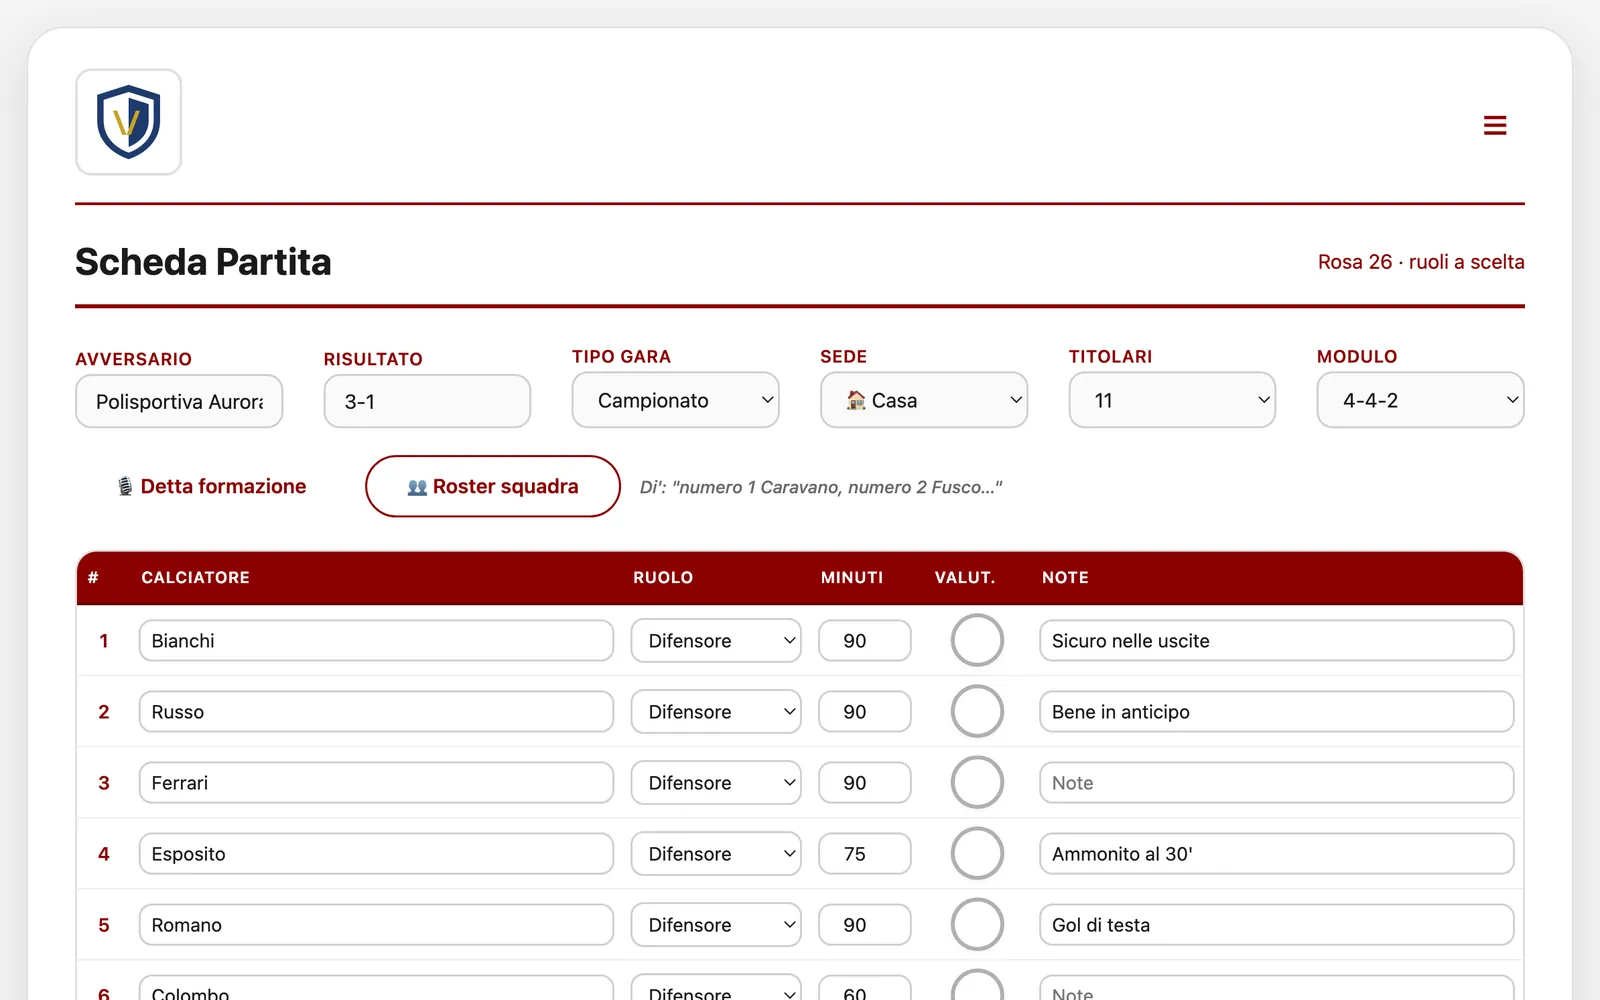
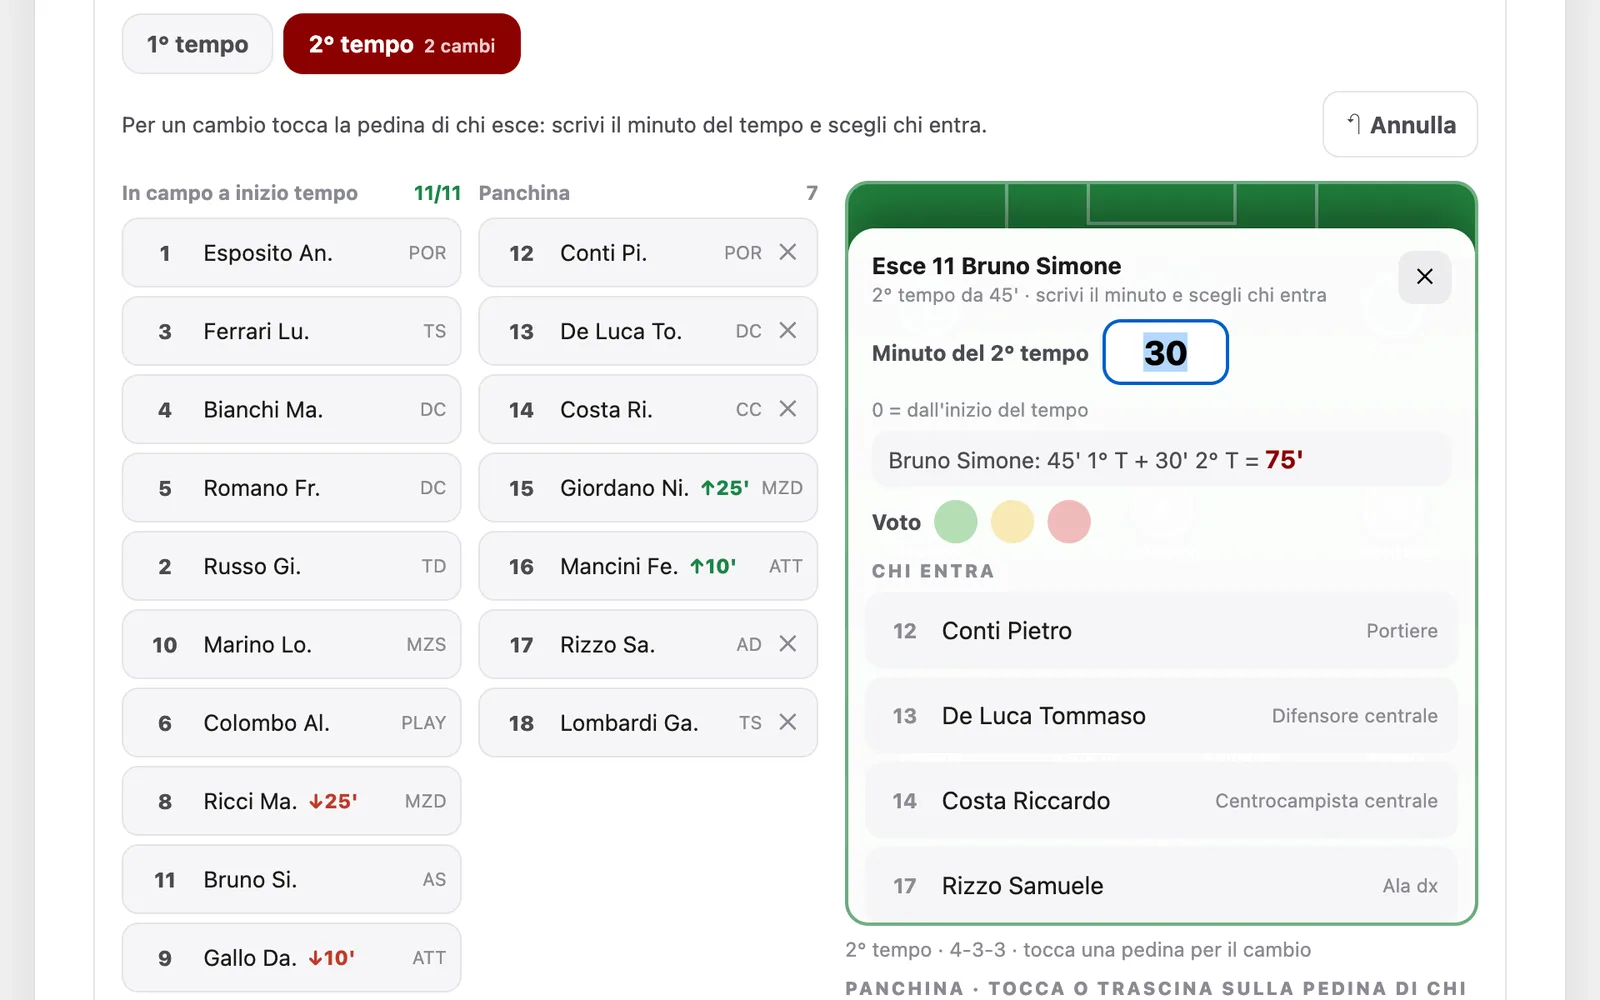
Report: quaderno «?» rifatto con le nuove schermate (6 pagine: dati, chi era in campo, cambio sulla pedina, pagella, marcatori e file, PDF) e pulsante «?» di nuovo nel Report; elenchi con nomi corti e ruolo abbreviato; riquadro Fuori rosa chiuso finché non lo apri; spazio corretto nel titolo del PDF

diff --git a/guida/guida.js b/guida/guida.js
@@ -7,7 +7,7 @@
   if (!me) return;
   var app = me.getAttribute('data-app');
   var base = new URL('.', me.src).href;
-  var BOOKS = {"lavagna": [{"img": "img/lav-1.webp", "t": "Imposta la seduta", "d": "Data, categoria, numero della seduta, durata, obiettivo e materiale: li scrivi una volta in alto e finiscono nell’intestazione del PDF.", "hl": {"x": 0.0427, "y": 0.329, "w": 0.9146, "h": 0.1876}}, {"img": "img/lav-2.webp", "t": "Trascina giocatori e attrezzi", "d": "Pedine colorate, giocatori di fronte, di spalle e in corsa, coni, porte, scale e ostacoli: li trascini sul campo, li ruoti e li ridimensioni. La maglia dei giocatori cambia colore con un tocco.", "hl": {"x": 0.0427, "y": 0.128, "w": 0.1106, "h": 0.8831}}, {"img": "img/lav-3.webp", "t": "Disegna i movimenti", "d": "Scegli passaggio, corsa, conduzione o tiro e tira la freccia sul campo: con le maniglie la allunghi o la curvi. Linee e zone servono a delimitare gli spazi.", "hl": {"x": 0.0427, "y": 0.0107, "w": 0.9146, "h": 0.1173}}, {"img": "img/lav-4.webp", "t": "Esercizio solo testo", "d": "Se vai di fretta scrivi l’esercizio a parole, con durata e materiale. Nel PDF esce come riquadro di testo al posto del campo.", "hl": {"x": 0.1683, "y": 0.1608, "w": 0.7889, "h": 0.5407}}, {"img": "img/lav-5.webp", "t": "Salva e stampa", "d": "Salva la seduta come file sul dispositivo e riaprila quando vuoi. Con Stampa / PDF ottieni la seduta pronta da stampare o da inviare.", "hl": {"x": 0.6458, "y": 0.2265, "w": 0.3115, "h": 0.0529}}, {"img": "img/lav-6.webp", "t": "Logo, firma e colori", "d": "Dal menu ☰ carichi il logo della squadra, aggiungi la tua firma e scegli il colore: valgono per tutte le app della suite.", "hl": {"x": 0.7563, "y": 0.1541, "w": 0.201, "h": 0.4201}}], "posizionamenti": [{"img": "img/pos-1.webp", "t": "Dati della gara", "d": "Avversario, data, tipo di gara, sede e modulo. In alto scegli calcio a 11 o a 9: ognuno ha le sue tabelle.", "hl": {"x": 0.0243, "y": 0.2117, "w": 0.9514, "h": 0.209}}, {"img": "img/pos-2.webp", "t": "Formazione", "d": "Titolari e panchina con i numeri di maglia. Con il roster della squadra scegli i nomi da un elenco e il numero si mette da solo.", "hl": {"x": 0.0243, "y": 0.0188, "w": 0.3138, "h": 0.9812}}, {"img": "img/pos-3.webp", "t": "Tabelle a misura tua", "d": "Rinomini titoli e voci, aggiungi righe con ＋ e con ↕ Sposta le metti dove servono. Le tabelle che non usi si nascondono.", "hl": {"x": 0.3431, "y": 0.0322, "w": 0.3138, "h": 0.6742}}, {"img": "img/pos-4.webp", "t": "Lo schieramento in campo", "d": "I giocatori della formazione compaiono sul campo secondo il modulo: li trascini dove vuoi e aggiungi frecce.", "hl": {"x": 0.0846, "y": 0.0858, "w": 0.8308, "h": 0.8993}}, {"img": "img/pos-5.webp", "t": "Gli schemi delle palle inattive", "d": "Corner e punizioni si disegnano da soli con i nomi delle tabelle. Sposti le pedine, aggiungi note e frecce.", "hl": {"x": 0.0762, "y": 0.0189, "w": 0.8476, "h": 0.8126}}, {"img": "img/pos-6.webp", "t": "PDF per lo spogliatoio", "d": "Nell’anteprima scegli le pagine da salvare: la scheda, lo schieramento e uno schema per pagina.", "hl": {"x": 0, "y": 0.0844, "w": 1, "h": 0.1688}}], "report": [{"img": "img/rep-1.webp", "t": "Dati della gara", "d": "Avversario, risultato, tipo di gara, sede, numero di titolari e modulo.", "hl": {"x": 0.0419, "y": 0.3631, "w": 0.9162, "h": 0.073}}, {"img": "img/rep-2.webp", "t": "La rosa della partita", "d": "Per ogni giocatore ruolo, minuti giocati, valutazione e una nota. Fino a 26 giocatori.", "hl": {"x": 0.0431, "y": 0.0188, "w": 0.9137, "h": 0.9812}}, {"img": "img/rep-3.webp", "t": "Roster e formazione a voce", "d": "Carichi la rosa una volta sola e scegli i nomi dall’elenco. Con Detta formazione la dici a voce e la scheda si compila.", "hl": {"x": 0.0419, "y": 0.4469, "w": 0.3513, "h": 0.0784}}, {"img": "img/rep-4.webp", "t": "PDF e file", "d": "Esporti il report in PDF con logo e colori del club, oppure salvi la partita come file e la riapri quando vuoi.", "hl": {"x": 0.0419, "y": 0.3156, "w": 0.4109, "h": 0.0784}}], "match": [{"img": "img/mat-1.webp", "t": "Squadre e data", "d": "Scrivi le squadre, la data e il risultato: finiscono nel report e nello storico.", "hl": {"x": 0.0595, "y": 0.2184, "w": 0.8811, "h": 0.075}}, {"img": "img/mat-2.webp", "t": "Quattro modi di lavorare", "d": "Modalità video per registrare dal filmato, Live in tribuna durante la partita, Analisi video per rivedere, Storico per confrontare le partite.", "hl": {"x": 0.0419, "y": 0.327, "w": 0.9162, "h": 0.0737}}, {"img": "img/mat-3.webp", "t": "Il campo a zone", "d": "Tocchi una delle 16 zone del campo e scegli l’evento dalla lista, compresi quelli che aggiungi tu. Ogni evento ha il suo minuto.", "hl": {"x": 0.5025, "y": 0.272, "w": 0.4548, "h": 0.4769}}, {"img": "img/mat-4.webp", "t": "Analisi video", "d": "Rivedi il video con zoom fermo, laser e testi che compaiono a tempo, e tagli le clip delle azioni con i testi compresi.", "hl": {"x": 0.4504, "y": 0.0322, "w": 0.1785, "h": 0.0549}}, {"img": "img/mat-5.webp", "t": "Salva e PDF", "d": "A fine partita salvi il file sul dispositivo o il PDF del report con le statistiche.", "hl": {"x": 0.0419, "y": 0.3938, "w": 0.9162, "h": 0.1085}}], "postura": [{"img": "img/pst-1.webp", "t": "Tre foto", "d": "Carichi una foto di fronte, una di spalle e una di lato. L’app trova i punti del corpo sul dispositivo: le foto non vengono inviate a nessuno.", "hl": {"x": 0.0084, "y": 0.005, "w": 0.9832, "h": 0.7652}}, {"img": "img/pst-2.webp", "t": "Scheletro e angoli", "d": "Con gli interruttori mostri o nascondi scheletro e angoli; con Zoom atleta ingrandisci la persona.", "hl": {"x": 0.0209, "y": 0.1933, "w": 0.9581, "h": 0.0616}}, {"img": "img/pst-3.webp", "t": "Valori di riferimento e report", "d": "I colori confrontano le misure con valori di riferimento per la persona in piedi. Sotto scrivi le tue conclusioni.", "hl": {"x": 0.0084, "y": 0.604, "w": 0.9832, "h": 0.2767}}, {"img": "img/pst-4.webp", "t": "Salva e PDF", "d": "Nome dell’atleta e data, poi salvi il file o crei il PDF. Strumento per l’allenamento, non una valutazione medica.", "hl": {"x": 0.0209, "y": 0.2764, "w": 0.9581, "h": 0.0704}}], "movimento": [{"img": "img/mov-1.webp", "t": "Carica il gesto", "d": "Carichi un video o una foto e scegli cosa misurare: tutto, gambe, busto o nessun segno sul corpo. C’è anche il cronometro al millesimo.", "hl": {"x": 0.0209, "y": 0.0251, "w": 0.66, "h": 0.134}}, {"img": "img/mov-2.webp", "t": "Fotogramma per fotogramma", "d": "Fermi il video, vai avanti e indietro di un fotogramma e vedi scheletro e angoli nel punto esatto del gesto.", "hl": {"x": 0.0209, "y": 0.1591, "w": 0.66, "h": 0.6968}}, {"img": "img/mov-3.webp", "t": "Misure e fotogrammi per il PDF", "d": "A destra leggi gli angoli del fotogramma; con Aggiungi al PDF metti da parte i momenti chiave, con Foto PNG li salvi come immagini.", "hl": {"x": 0.6968, "y": 0.005, "w": 0.2948, "h": 0.3288}}, {"img": "img/mov-4.webp", "t": "Report e PDF", "d": "Scrivi le conclusioni sul gesto e crei il PDF con i fotogrammi scelti. Strumento per l’allenamento, non una valutazione medica.", "hl": {"x": 0.0209, "y": 0.2764, "w": 0.9581, "h": 0.0704}}]};
+  var BOOKS = {"lavagna": [{"img": "img/lav-1.webp", "t": "Imposta la seduta", "d": "Data, categoria, numero della seduta, durata, obiettivo e materiale: li scrivi una volta in alto e finiscono nell’intestazione del PDF.", "hl": {"x": 0.0427, "y": 0.329, "w": 0.9146, "h": 0.1876}}, {"img": "img/lav-2.webp", "t": "Trascina giocatori e attrezzi", "d": "Pedine colorate, giocatori di fronte, di spalle e in corsa, coni, porte, scale e ostacoli: li trascini sul campo, li ruoti e li ridimensioni. La maglia dei giocatori cambia colore con un tocco.", "hl": {"x": 0.0427, "y": 0.128, "w": 0.1106, "h": 0.8831}}, {"img": "img/lav-3.webp", "t": "Disegna i movimenti", "d": "Scegli passaggio, corsa, conduzione o tiro e tira la freccia sul campo: con le maniglie la allunghi o la curvi. Linee e zone servono a delimitare gli spazi.", "hl": {"x": 0.0427, "y": 0.0107, "w": 0.9146, "h": 0.1173}}, {"img": "img/lav-4.webp", "t": "Esercizio solo testo", "d": "Se vai di fretta scrivi l’esercizio a parole, con durata e materiale. Nel PDF esce come riquadro di testo al posto del campo.", "hl": {"x": 0.1683, "y": 0.1608, "w": 0.7889, "h": 0.5407}}, {"img": "img/lav-5.webp", "t": "Salva e stampa", "d": "Salva la seduta come file sul dispositivo e riaprila quando vuoi. Con Stampa / PDF ottieni la seduta pronta da stampare o da inviare.", "hl": {"x": 0.6458, "y": 0.2265, "w": 0.3115, "h": 0.0529}}, {"img": "img/lav-6.webp", "t": "Logo, firma e colori", "d": "Dal menu ☰ carichi il logo della squadra, aggiungi la tua firma e scegli il colore: valgono per tutte le app della suite.", "hl": {"x": 0.7563, "y": 0.1541, "w": 0.201, "h": 0.4201}}], "posizionamenti": [{"img": "img/pos-1.webp", "t": "Dati della gara", "d": "Avversario, data, tipo di gara, sede e modulo. In alto scegli calcio a 11 o a 9: ognuno ha le sue tabelle.", "hl": {"x": 0.0243, "y": 0.2117, "w": 0.9514, "h": 0.209}}, {"img": "img/pos-2.webp", "t": "Formazione", "d": "Titolari e panchina con i numeri di maglia. Con il roster della squadra scegli i nomi da un elenco e il numero si mette da solo.", "hl": {"x": 0.0243, "y": 0.0188, "w": 0.3138, "h": 0.9812}}, {"img": "img/pos-3.webp", "t": "Tabelle a misura tua", "d": "Rinomini titoli e voci, aggiungi righe con ＋ e con ↕ Sposta le metti dove servono. Le tabelle che non usi si nascondono.", "hl": {"x": 0.3431, "y": 0.0322, "w": 0.3138, "h": 0.6742}}, {"img": "img/pos-4.webp", "t": "Lo schieramento in campo", "d": "I giocatori della formazione compaiono sul campo secondo il modulo: li trascini dove vuoi e aggiungi frecce.", "hl": {"x": 0.0846, "y": 0.0858, "w": 0.8308, "h": 0.8993}}, {"img": "img/pos-5.webp", "t": "Gli schemi delle palle inattive", "d": "Corner e punizioni si disegnano da soli con i nomi delle tabelle. Sposti le pedine, aggiungi note e frecce.", "hl": {"x": 0.0762, "y": 0.0189, "w": 0.8476, "h": 0.8126}}, {"img": "img/pos-6.webp", "t": "PDF per lo spogliatoio", "d": "Nell’anteprima scegli le pagine da salvare: la scheda, lo schieramento e uno schema per pagina.", "hl": {"x": 0, "y": 0.0844, "w": 1, "h": 0.1688}}], "report": [{"img": "img/rep-1.webp", "t": "Dati della gara", "d": "Data, avversario, tipo di gara, sede e gol. Scegli il formato (a 11, 9, 7 o 5), il modulo e quanti tempi da quanti minuti: il totale si calcola da solo.", "hl": {"x": 0.0521, "y": 0.0033, "w": 0.8958, "h": 0.4642}}, {"img": "img/rep-2.webp", "t": "Chi era in campo", "d": "La rosa del Roster entra già tra i convocati. In ogni tempo tocchi i giocatori in panchina per metterli in campo. Con Detta formazione li dici a voce, con Fuori rosa aggiungi chi non è in rosa.", "hl": {"x": 0.0698, "y": 0.09, "w": 0.8604, "h": 0.91}}, {"img": "img/rep-3.webp", "t": "Il cambio sulla pedina", "d": "Tocchi la pedina di chi esce, scrivi il minuto del tempo e scegli chi entra: i minuti si calcolano da soli (45' + 30' = 75'). Puoi anche trascinare sulla pedina un giocatore della panchina. ↶ Annulla toglie l’ultimo cambio.", "hl": {"x": 0.5219, "y": 0.171, "w": 0.4083, "h": 0.7651}}, {"img": "img/rep-4.webp", "t": "La pagella", "d": "Solo chi ha giocato, con i minuti di ogni tempo. Per ognuno il ruolo nella partita, il voto a pallino (verde, giallo, rosso) e una nota.", "hl": {"x": 0.0698, "y": 0.0669, "w": 0.8604, "h": 0.9331}}, {"img": "img/rep-5.webp", "t": "Marcatori, note e file", "d": "Marcatori, assist e gol subiti dai portieri, poi le note sulla gara. Salvi la partita come file sul dispositivo e la riapri quando vuoi.", "hl": {"x": 0.0521, "y": 0.0396, "w": 0.8958, "h": 0.6458}}, {"img": "img/rep-6.webp", "t": "Il PDF della gara", "d": "Nell’anteprima vedi il report con risultato, formazione iniziale, cambi, marcatori e la tabella dei minuti per tempo. Con Conferma e salva hai il PDF con logo e colori del club.", "hl": {"x": 0.0802, "y": 0.1383, "w": 0.8396, "h": 0.8617}}], "match": [{"img": "img/mat-1.webp", "t": "Squadre e data", "d": "Scrivi le squadre, la data e il risultato: finiscono nel report e nello storico.", "hl": {"x": 0.0595, "y": 0.2184, "w": 0.8811, "h": 0.075}}, {"img": "img/mat-2.webp", "t": "Quattro modi di lavorare", "d": "Modalità video per registrare dal filmato, Live in tribuna durante la partita, Analisi video per rivedere, Storico per confrontare le partite.", "hl": {"x": 0.0419, "y": 0.327, "w": 0.9162, "h": 0.0737}}, {"img": "img/mat-3.webp", "t": "Il campo a zone", "d": "Tocchi una delle 16 zone del campo e scegli l’evento dalla lista, compresi quelli che aggiungi tu. Ogni evento ha il suo minuto.", "hl": {"x": 0.5025, "y": 0.272, "w": 0.4548, "h": 0.4769}}, {"img": "img/mat-4.webp", "t": "Analisi video", "d": "Rivedi il video con zoom fermo, laser e testi che compaiono a tempo, e tagli le clip delle azioni con i testi compresi.", "hl": {"x": 0.4504, "y": 0.0322, "w": 0.1785, "h": 0.0549}}, {"img": "img/mat-5.webp", "t": "Salva e PDF", "d": "A fine partita salvi il file sul dispositivo o il PDF del report con le statistiche.", "hl": {"x": 0.0419, "y": 0.3938, "w": 0.9162, "h": 0.1085}}], "postura": [{"img": "img/pst-1.webp", "t": "Tre foto", "d": "Carichi una foto di fronte, una di spalle e una di lato. L’app trova i punti del corpo sul dispositivo: le foto non vengono inviate a nessuno.", "hl": {"x": 0.0084, "y": 0.005, "w": 0.9832, "h": 0.7652}}, {"img": "img/pst-2.webp", "t": "Scheletro e angoli", "d": "Con gli interruttori mostri o nascondi scheletro e angoli; con Zoom atleta ingrandisci la persona.", "hl": {"x": 0.0209, "y": 0.1933, "w": 0.9581, "h": 0.0616}}, {"img": "img/pst-3.webp", "t": "Valori di riferimento e report", "d": "I colori confrontano le misure con valori di riferimento per la persona in piedi. Sotto scrivi le tue conclusioni.", "hl": {"x": 0.0084, "y": 0.604, "w": 0.9832, "h": 0.2767}}, {"img": "img/pst-4.webp", "t": "Salva e PDF", "d": "Nome dell’atleta e data, poi salvi il file o crei il PDF. Strumento per l’allenamento, non una valutazione medica.", "hl": {"x": 0.0209, "y": 0.2764, "w": 0.9581, "h": 0.0704}}], "movimento": [{"img": "img/mov-1.webp", "t": "Carica il gesto", "d": "Carichi un video o una foto e scegli cosa misurare: tutto, gambe, busto o nessun segno sul corpo. C’è anche il cronometro al millesimo.", "hl": {"x": 0.0209, "y": 0.0251, "w": 0.66, "h": 0.134}}, {"img": "img/mov-2.webp", "t": "Fotogramma per fotogramma", "d": "Fermi il video, vai avanti e indietro di un fotogramma e vedi scheletro e angoli nel punto esatto del gesto.", "hl": {"x": 0.0209, "y": 0.1591, "w": 0.66, "h": 0.6968}}, {"img": "img/mov-3.webp", "t": "Misure e fotogrammi per il PDF", "d": "A destra leggi gli angoli del fotogramma; con Aggiungi al PDF metti da parte i momenti chiave, con Foto PNG li salvi come immagini.", "hl": {"x": 0.6968, "y": 0.005, "w": 0.2948, "h": 0.3288}}, {"img": "img/mov-4.webp", "t": "Report e PDF", "d": "Scrivi le conclusioni sul gesto e crei il PDF con i fotogrammi scelti. Strumento per l’allenamento, non una valutazione medica.", "hl": {"x": 0.0209, "y": 0.2764, "w": 0.9581, "h": 0.0704}}]};
   var NAMES = { lavagna: 'Lavagna', posizionamenti: 'Posizionamenti', report: 'Report', match: 'Match', postura: 'Postura', movimento: 'Movimento' };
   var NOTES = { match: 'Video e dati di esempio.', postura: 'Schermate dell’app senza foto di esempio.', movimento: 'Schermate dell’app senza video di esempio.' };
   var pages = BOOKS[app];

diff --git a/report/index.html b/report/index.html
@@ -1120,6 +1120,9 @@
         .cform .fld.cmin { flex: 0 0 90px; }
         .fld input:focus, .fld select:focus, .fld textarea:focus, .pg-ruolo:focus, .pg-note:focus, .pg-min input:focus, .ex-r select:focus, .ex-r input:focus {
             outline: 2px solid rgba(var(--accent-rgb), .35); outline-offset: 0; border-color: var(--accent); }
+        .ospite[hidden] { display: none; }
+        .pr-nome { flex: 0 1 auto; }
+        .pr-ruolo { flex: 0 100 auto; min-width: 0; }
         .ospite .btn, .cform .btn-mini { height: 42px; box-sizing: border-box; padding: 0 14px; display: inline-flex; align-items: center; }
         .ospite, .cform { align-items: flex-end; }
         .seg { height: 42px; box-sizing: border-box; align-items: center; padding: 3px; display: flex; width: 100%; flex-wrap: nowrap; align-self: stretch; }
@@ -2407,10 +2410,10 @@ window.SuiteFile = (function () {
                 const togli = dove === 'panca' && !usati.has(r.uid);
                 return `<div class="pr${sel && sel.uid === r.uid ? ' sel' : ''}" data-act="tocca" data-uid="${r.uid}" data-campo="${dove === 'campo' ? 1 : ''}" role="button" tabindex="0">
                     <input class="pr-num" data-num="${r.uid}" value="${esc(r.num)}" inputmode="numeric" maxlength="3" placeholder="#" title="Numero di maglia in questa partita" />
-                    <span class="pr-nome" title="${esc(r.name)}">${esc(r.name)}</span>
+                    <span class="pr-nome" title="${esc(r.name)}">${esc(nomePdf(r.name))}</span>
                     ${r.guest ? '<span class="badge-fr">FUORI ROSA</span>' : ''}
                     ${usc ? `<span class="dn">↓${usc.min}'</span>` : ''}${ent ? `<span class="up">↑${ent.min}'</span>` : ''}
-                    <span class="pr-ruolo">${esc(r.role)}</span>
+                    <span class="pr-ruolo" title="${esc(r.role)}">${esc(r.role ? abbr(r.role) : '')}</span>
                     ${togli ? `<button type="button" class="pr-x" data-act="nonconv" data-uid="${r.uid}" title="Togli dai convocati">✕</button>` : ''}
                 </div>`;
             }
@@ -2454,7 +2457,7 @@ window.SuiteFile = (function () {
                             ${panca.map(r => rigaGiocatore(r, 'panca', cambi, usati)).join('')}
                             ${!tutti.length ? '<div class="vuoto">Nessun giocatore: apri 👥 Roster squadra per caricare la rosa, oppure usa ＋ Fuori rosa.</div>' : ''}
                             ${nc.length ? `<details class="nc"${ncOpen ? ' open' : ''}><summary>Non convocati (${nc.length}) · tocca per convocare</summary>
-                                ${nc.map(p => `<div class="pr" data-act="convoca" data-name="${esc(p.name)}" role="button" tabindex="0"><span class="pg-num">${esc(p.num || '—')}</span><span class="pr-nome">${esc(p.name)}</span><span class="pr-ruolo">${esc(p.role)}</span></div>`).join('')}
+                                ${nc.map(p => `<div class="pr" data-act="convoca" data-name="${esc(p.name)}" role="button" tabindex="0"><span class="pg-num">${esc(p.num || '—')}</span><span class="pr-nome" title="${esc(p.name)}">${esc(nomePdf(p.name))}</span><span class="pr-ruolo" title="${esc(p.role)}">${esc(p.role ? abbr(p.role) : '')}</span></div>`).join('')}
                             </details>` : ''}
                         </div>
                     </div>
@@ -2858,7 +2861,7 @@ window.SuiteFile = (function () {
                 const thT = ut && t.n > 1 ? Array.from({ length: t.n }, (_, j) => `<th class="c">${j + 1}°T</th>`).join('') : '';
                 return `<div class="sheet">
                     <div class="sh-top">${logo}
-                        <div class="sh-tit"><small>Report gara · ${esc(S.type)} · ${esc(S.venue)}</small><b>${esc(S.opponent || 'Avversario')}</b>
+                        <div class="sh-tit"><small>Report gara · ${esc(S.type)} · ${esc(S.venue)}</small><b>${esc(S.opponent || 'Avversario').replace(/ /g, '&nbsp;')}</b>
                             <span>${esc(data)} · a ${S.formato} · ${esc(modEff())} · ${t.n} × ${t.durata}'</span></div>
                         ${res ? `<div class="sh-res">${esc(res)}</div>` : ''}</div>
                     <div class="sh-mid">
@@ -2930,5 +2933,6 @@ window.SuiteFile = (function () {
   try{var _c=JSON.parse(localStorage.getItem('clubAccentColor')||'null');_c=typeof _c==='string'?_c:(_c&&(_c.accent||_c.color));
     if(_c)document.getElementById('suite-home').style.setProperty('--suite-accent',_c);}catch(e){}
 </script>
+<script src="../guida/guida.js" data-app="report"></script>
 </body>
 </html>
